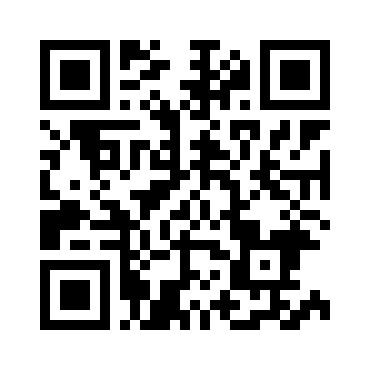
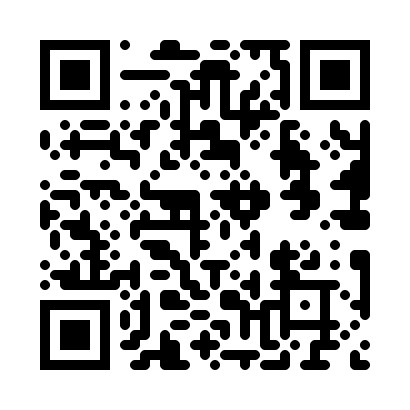
add round elements in qr code & generate on enter key press

diff --git a/main.py b/main.py
@@ -1,5 +1,7 @@
 import streamlit as st
-import qrcode as qr
+import qrcode
+from qrcode.image.styledpil import StyledPilImage
+from qrcode.image.styles.moduledrawers import RoundedModuleDrawer
 import io
 
 st.title("QR code generation")
@@ -8,8 +10,12 @@ text_input = st.text_input("What text do you want to encode?")
 action_button = st.button("Generate QR code")
 image_element = st.image("./Calm.jpg")
 
-if action_button:
-    image_pil = qr.make(text_input)
+if action_button or text_input:
+    qr = qrcode.QRCode(error_correction=qrcode.constants.ERROR_CORRECT_H)
+    qr.add_data(text_input)
+    image_pil = qr.make_image(
+        image_factory=StyledPilImage, module_drawer=RoundedModuleDrawer()
+    )
     buffer = io.BytesIO()
     image_pil.save(buffer, format="PNG")
     image_element.image(buffer.getvalue())
